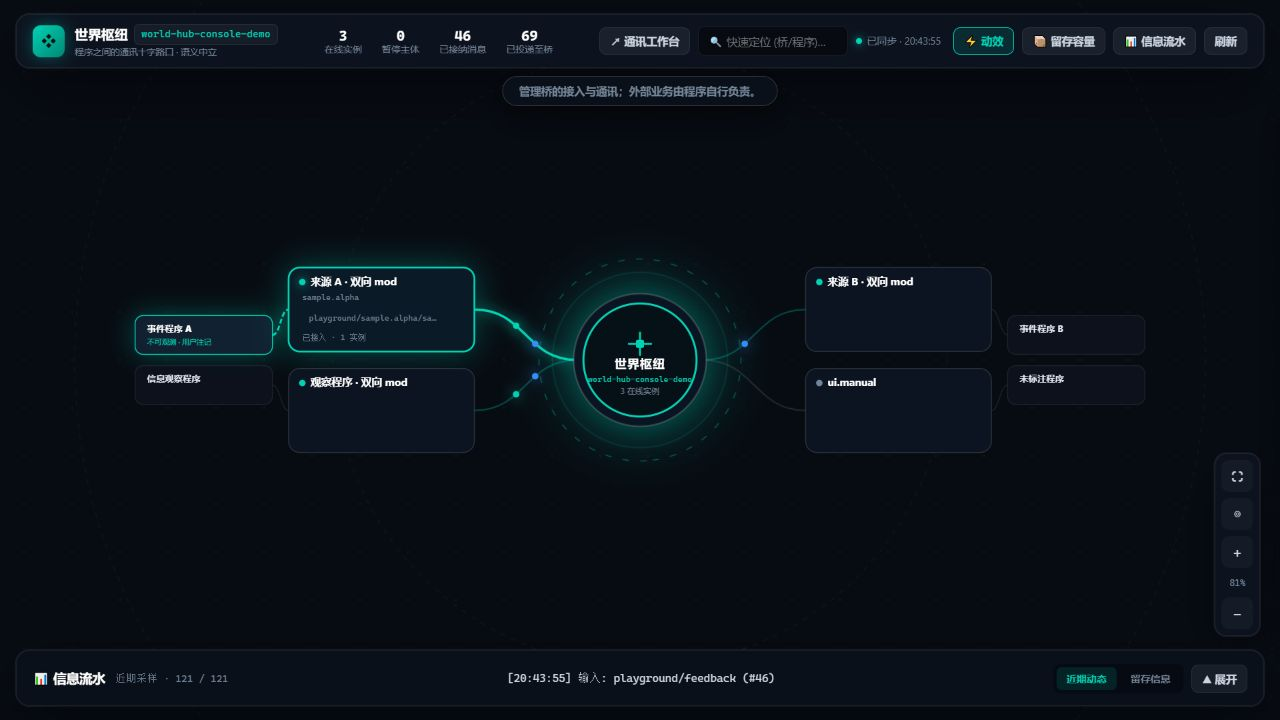
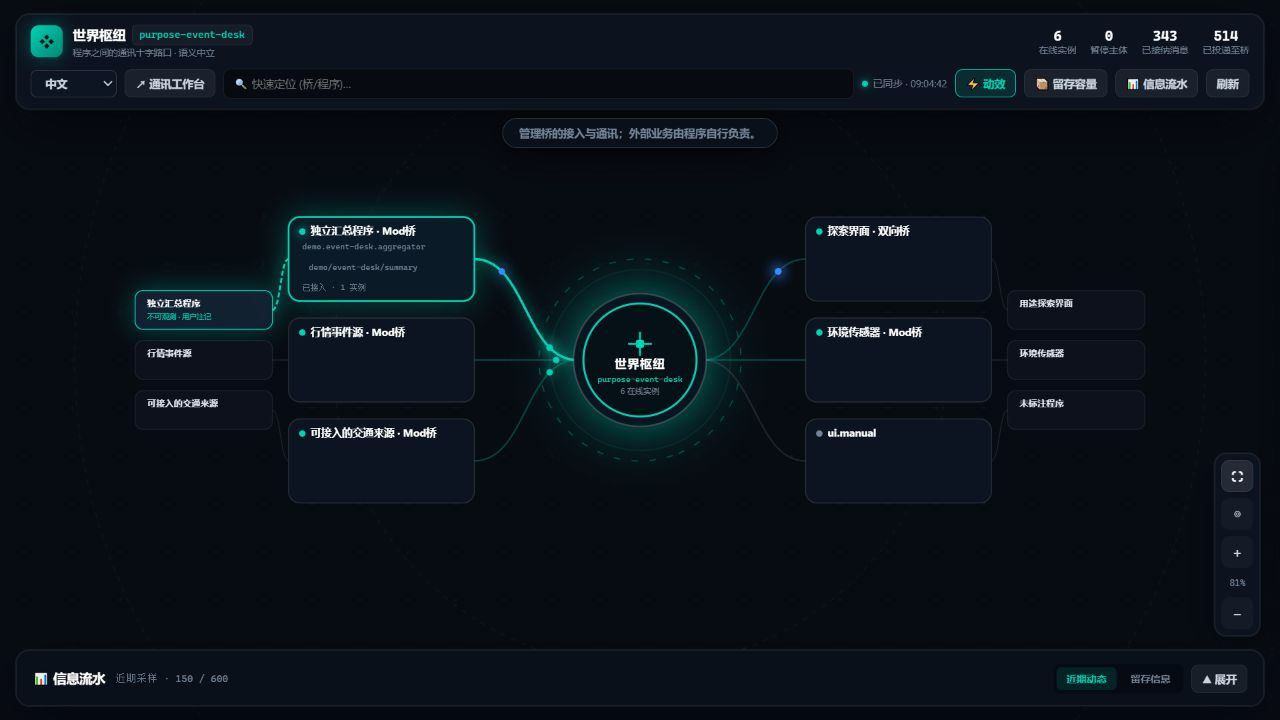
Refresh bilingual interface screenshots and demo annotations

diff --git a/README.en.md b/README.en.md
@@ -35,19 +35,19 @@ All three demos start real, independent programs that exchange information throu
 
 The event desk below is an actual run. Traffic readings appear alongside environment and market data. After the interface sends settings back to the environment program, readings continue with the new parameters.
 
-![Actual three-source event dashboard and control settings returned by the source program](https://raw.githubusercontent.com/oooBCKooo/world-hub/main/docs/images/demo-event-desk.jpg)
+![English interface: actual three-source event dashboard and control settings returned by the source program](https://raw.githubusercontent.com/oooBCKooo/world-hub/main/docs/images/demo-event-desk-en.jpg?v=0.13.2)
 
 <details>
 <summary>See actual results from four context sources and an independent executor</summary>
 
-![Four programs provide context; an independent checklist executor returns its output and actual source receipts](https://raw.githubusercontent.com/oooBCKooo/world-hub/main/docs/images/demo-modular-assistant.jpg)
+![English interface: four programs provide context; an independent checklist executor returns its output and actual source receipts](https://raw.githubusercontent.com/oooBCKooo/world-hub/main/docs/images/demo-modular-assistant-en.jpg?v=0.13.2)
 
 </details>
 
 <details>
 <summary>See three rounds of change in the external digital world</summary>
 
-![An independent director calls NPC, rules, and state programs, returning the initial state, three rounds of actions, and the final state](https://raw.githubusercontent.com/oooBCKooo/world-hub/main/docs/images/demo-digital-world.jpg)
+![English interface: an independent director calls NPC, rules, and state programs, returning the initial state, three rounds of actions, and the final state](https://raw.githubusercontent.com/oooBCKooo/world-hub/main/docs/images/demo-digital-world-en.jpg?v=0.13.2)
 
 </details>
 
@@ -93,14 +93,14 @@ Run `world-hub --open` to open the communications management interface. Purpose 
 
 The management canvas, communication workbench, and all three purpose demos offer Simplified Chinese / English switching and remember your choice in the browser. Switching changes interface wording and display formats; user-provided names, annotations, topics, application content, and original communication records retain their original text.
 
-![Hub management canvas: programs, bidirectional mod bridges, the Hub, and actual information flow](https://raw.githubusercontent.com/oooBCKooo/world-hub/main/docs/images/hub-topology.jpg)
+![English interface: Hub management canvas with programs, bidirectional mod bridges, the Hub, and actual information flow](https://raw.githubusercontent.com/oooBCKooo/world-hub/main/docs/images/hub-topology-en.jpg?v=0.13.2)
 
 The management canvas displays programs, bridges, the Hub, and information flow. It supports enabling and disabling connections and editing association annotations. Program annotations do not represent the actual execution state of external programs.
 
 <details>
 <summary>See the bidirectional mod communication workbench</summary>
 
-![Communication workbench: dynamic topics, original messages, and actual send/receive records](https://raw.githubusercontent.com/oooBCKooo/world-hub/main/docs/images/hub-workbench.jpg)
+![English interface: communication workbench with dynamic topics, original messages, and actual send/receive records](https://raw.githubusercontent.com/oooBCKooo/world-hub/main/docs/images/hub-workbench-en.jpg?v=0.13.2)
 
 The workbench uses its own mod to publish, subscribe, and retrieve information. It also supports requests and replies, injection, channel declarations, and attachment transfer. The screenshot shows an actual publication and the Hub's acceptance receipt.
 

diff --git a/README.md b/README.md
@@ -35,19 +35,19 @@
 
 多源事件台的实际运行：新增交通读数与环境、行情并列；界面向环境程序回传参数后，读数按新参数继续产生。
 
-![实际三源事件面板与来源程序返回的控制参数](https://raw.githubusercontent.com/oooBCKooo/world-hub/main/docs/images/demo-event-desk.jpg)
+![中文界面：实际三源事件面板与来源程序返回的控制参数](https://raw.githubusercontent.com/oooBCKooo/world-hub/main/docs/images/demo-event-desk.jpg?v=0.13.2)
 
 <details>
 <summary>查看四源上下文与独立执行器的实际成果</summary>
 
-![四个程序提供上下文，独立清单执行器返回成果和真实来源回执](https://raw.githubusercontent.com/oooBCKooo/world-hub/main/docs/images/demo-modular-assistant.jpg)
+![中文界面：四个程序提供上下文，独立清单执行器返回成果和真实来源回执](https://raw.githubusercontent.com/oooBCKooo/world-hub/main/docs/images/demo-modular-assistant.jpg?v=0.13.2)
 
 </details>
 
 <details>
 <summary>查看外部数字世界的三轮变化</summary>
 
-![独立导演调用 NPC、规则和状态程序，返回起始状态、三轮行动和最终状态](https://raw.githubusercontent.com/oooBCKooo/world-hub/main/docs/images/demo-digital-world.jpg)
+![中文界面：独立导演调用 NPC、规则和状态程序，返回起始状态、三轮行动和最终状态](https://raw.githubusercontent.com/oooBCKooo/world-hub/main/docs/images/demo-digital-world.jpg?v=0.13.2)
 
 </details>
 
@@ -93,14 +93,14 @@ npm run demo:events-explorer
 
 管理画布、通讯工作台和三套用途演示均支持简体中文／English 切换，并在浏览器中记住选择。切换仅改变界面文案与显示格式，用户提供的名称、注记、主题、业务内容和原始通讯记录保留原文。
 
-![枢纽管理画布：程序、双向 mod 桥、枢纽与真实信息流](https://raw.githubusercontent.com/oooBCKooo/world-hub/main/docs/images/hub-topology.jpg)
+![中文界面：枢纽管理画布中的程序、双向 mod 桥、枢纽与真实信息流](https://raw.githubusercontent.com/oooBCKooo/world-hub/main/docs/images/hub-topology.jpg?v=0.13.2)
 
 管理画布显示程序、桥、枢纽和信息流，支持接入通断与关联注记。程序注记不代表外部程序的真实执行状态。
 
 <details>
 <summary>查看双向 mod 通讯工作台</summary>
 
-![通讯工作台：动态主题、原文信息与真实收发记录](https://raw.githubusercontent.com/oooBCKooo/world-hub/main/docs/images/hub-workbench.jpg)
+![中文界面：通讯工作台的动态主题、原文信息与真实收发记录](https://raw.githubusercontent.com/oooBCKooo/world-hub/main/docs/images/hub-workbench.jpg?v=0.13.2)
 
 工作台通过自己的 mod 发布、订阅与抽取信息，也可请求／回应、注入、声明通道和传输附件。图中是一次实际发布及枢纽接纳回执。
 
